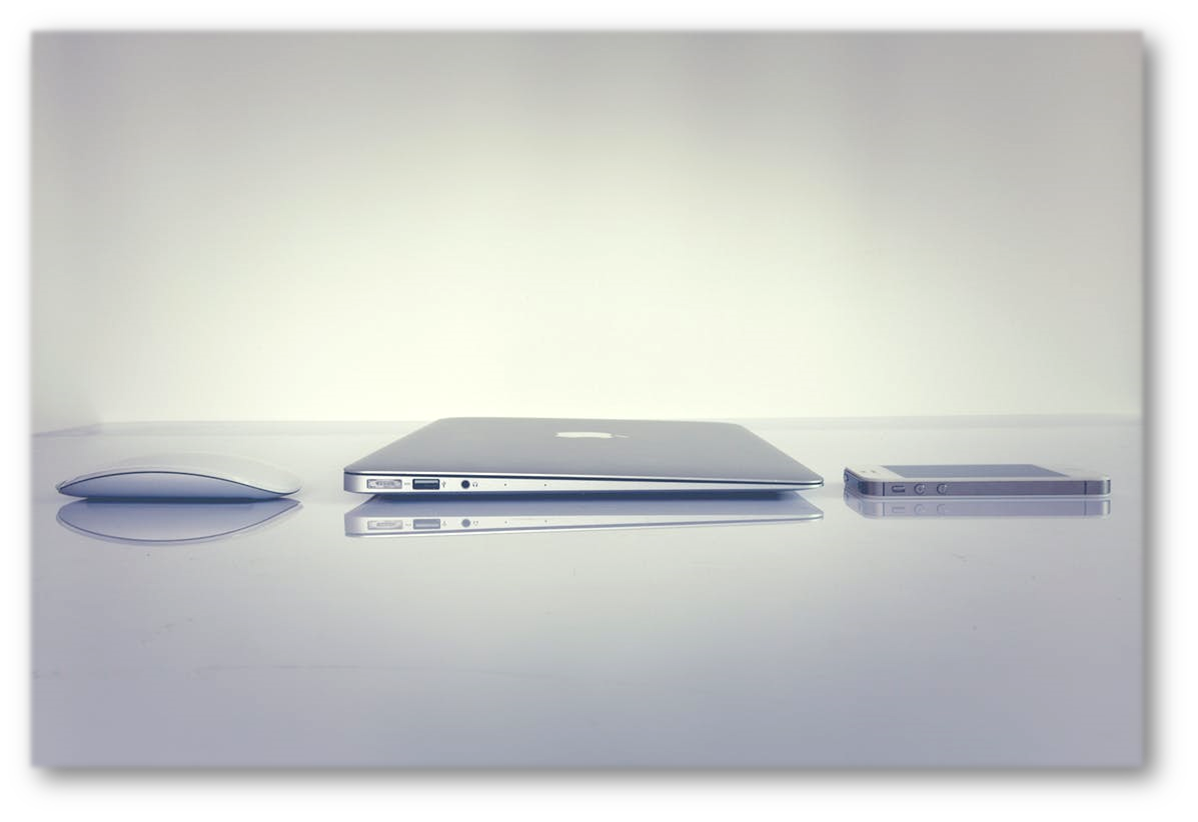
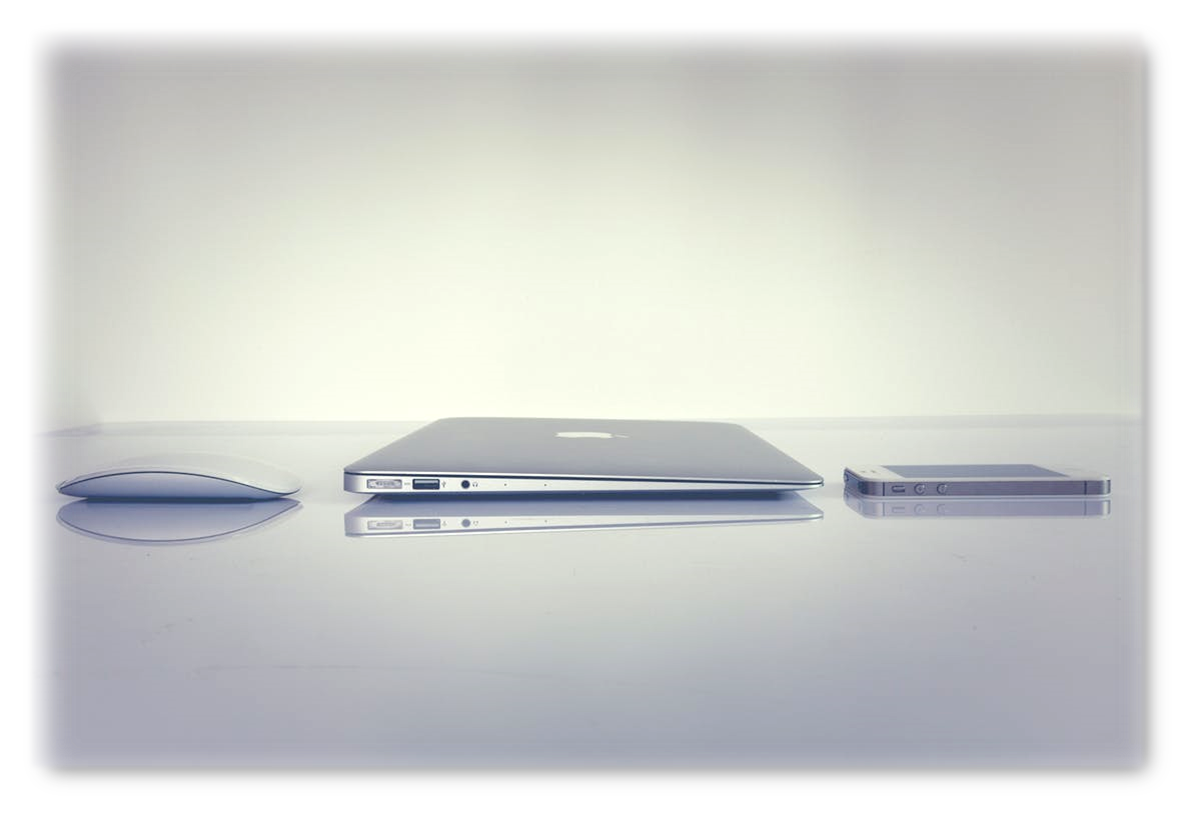
Change the picture

Changed region(s): [[0.0, 0.0304, 0.9883, 0.9732]]

diff --git a/style.css b/style.css
@@ -66,9 +66,24 @@ li{
   text-align: center;
   margin: 70px 10px 30px 0;
   color: white;
-  background-color: rgb(80, 189, 200);
+  background-color: rgb(16, 111, 157);
   padding: 15px;
   border-radius: 200px / 150px;
+  -webkit-transform: perspective(1px) translateZ(0);
+  transform: perspective(1px) translateZ(0);
+  box-shadow: 20 20 12px transparent;
+  -webkit-transition-duration: 0.5s;
+  transition-duration: 0.5s;
+  -webkit-transition-property: box-shadow, transform;
+  transition-property: box-shadow, transform;
+}
+
+li:hover, li:focus, li:active {
+  color: rgb(31, 7, 56);
+  background-color: rgb(26, 246, 246);
+  box-shadow: 0 20px 20px -20px rgba(0, 0, 0, 0.5);
+  -webkit-transform: scale(1.2);
+  transform: scale(1.2);
 }
 
 a{

diff --git a/index.html b/index.html
@@ -23,7 +23,7 @@
         </ul>
       </nav>
 
-      <img src="image/background1.png" class="image"/>
+      <img src="image/background2.png" class="image"/>
 
     </div>
     <footer>
